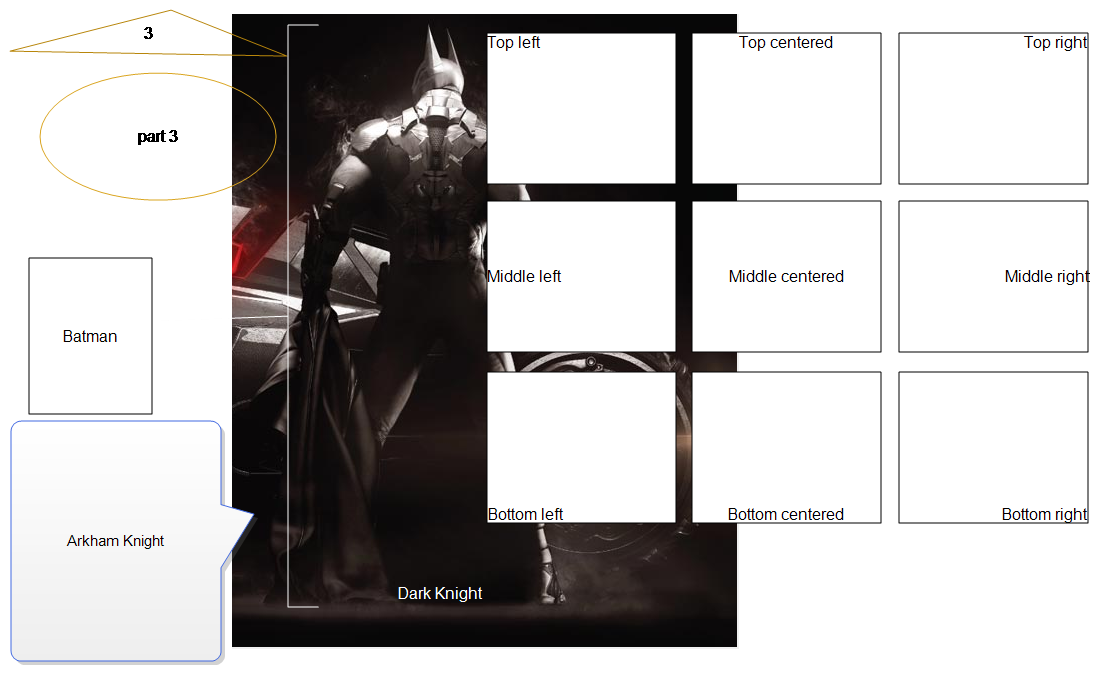
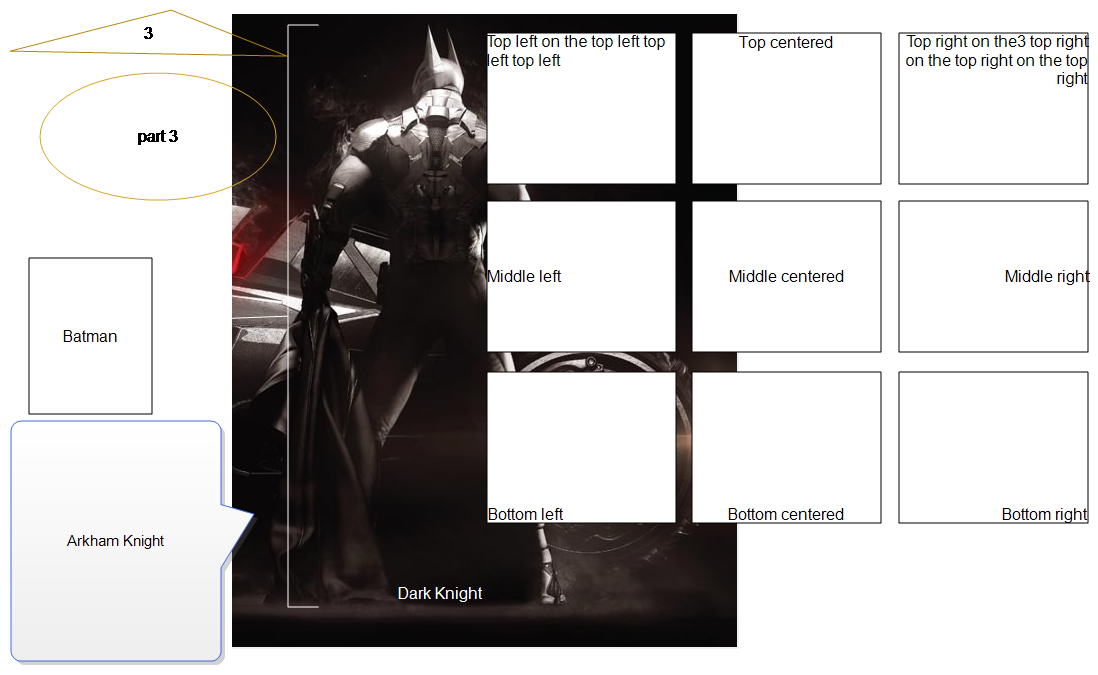
Commit of file:///C:/Users/jharkins/Documents/MySAVEDProjects/CaptureIntegrationBRANDNEW/Content/Batman/Batman.htm file:///C:/Users/jharkins/Documents/MySAVEDProjects/CaptureIntegrationBRANDNEW/Content/image26.png file:///C:/Users/jharkins/Documents/MySAVEDProjects/CaptureIntegrationBRANDNEW/Content

Changed region(s): [[0.8051, 0.0311, 0.9909, 0.1244], [0.4335, 0.0311, 0.6193, 0.0933]]

diff --git a/Content/Batman/Batman.htm b/Content/Batman/Batman.htm
@@ -1,5 +1,5 @@
 <?xml version="1.0" encoding="utf-8"?>
-<html xmlns:MadCap="http://www.madcapsoftware.com/Schemas/MadCap.xsd" MadCap:lastBlockDepth="2" MadCap:lastHeight="25678" MadCap:lastWidth="1232">
+<html xmlns:MadCap="http://www.madcapsoftware.com/Schemas/MadCap.xsd" MadCap:lastBlockDepth="2" MadCap:lastHeight="25648" MadCap:lastWidth="1106">
     <head>
     </head>
     <body>
@@ -169,5 +169,13 @@
         <p>
             <img src="../Resources/Images/Capture5.bmp" />
         </p>
+        <p>&#160;</p>
+        <h2>Auto-Size Test - Text is fine before build</h2>
+        <p>&#160;</p>
+        <h2>Auto-Size Test - Text is hidden before build</h2>
+        <p>&#160;</p>
+        <h2>Auto-Size Test - Object too big before build</h2>
+        <p>&#160;</p>
+        <p>&#160;</p>
     </body>
 </html>
